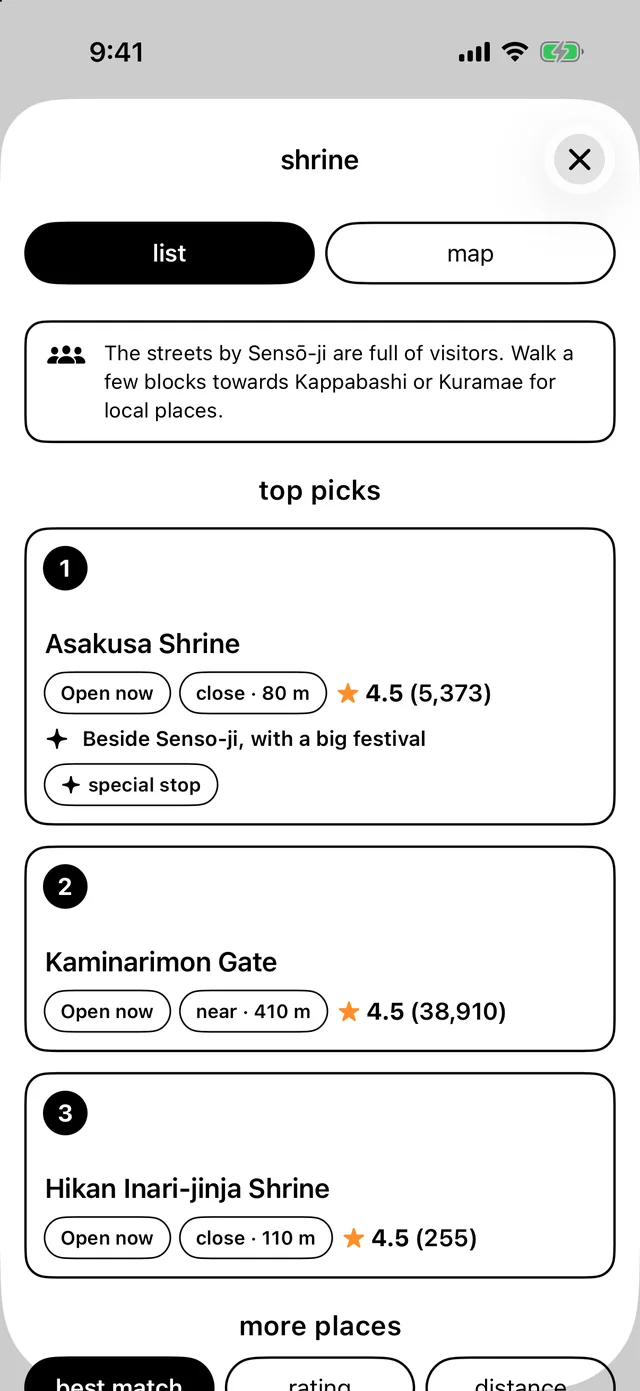
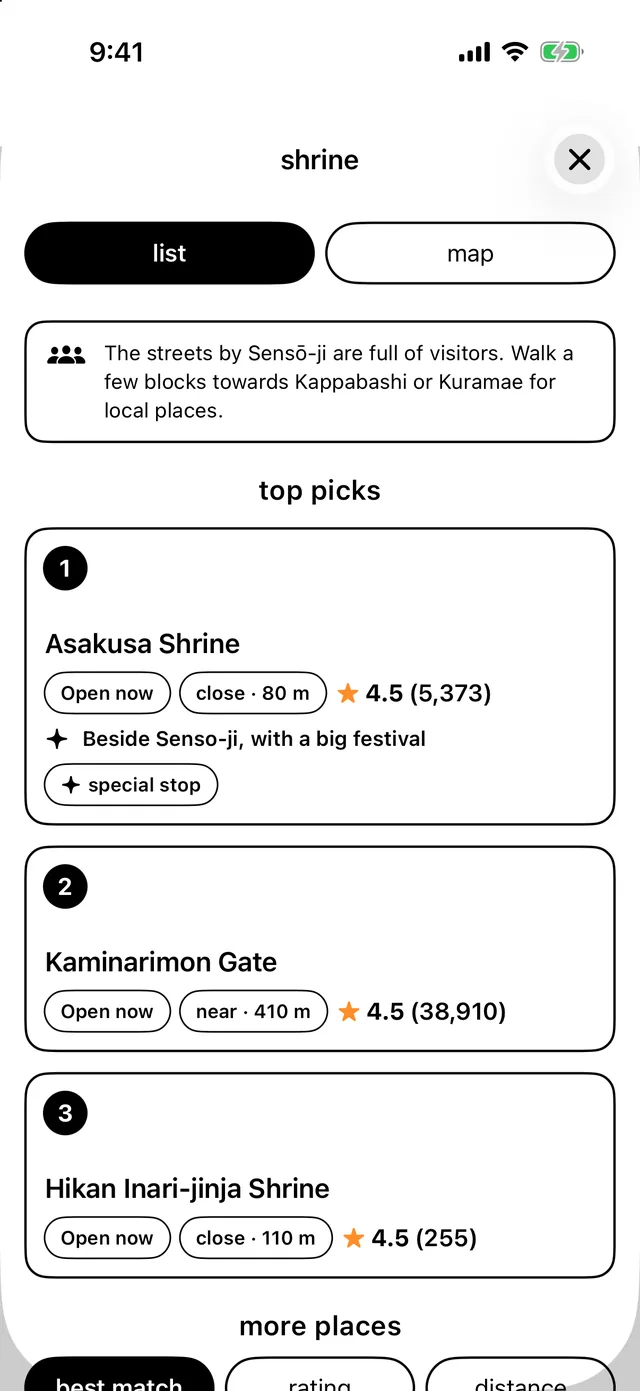
Demo: current app screens, one-tap walk flow with customize, place page path, guides and talk paths, status-bar clip, and an 'also inside' section
Claude-Session: https://claude.ai/code/session_01FxSsQnwZVufiE1aJZBi47o

Changed region(s): [[0.0, 0.0, 1.0, 0.0927]]

diff --git a/demo.js b/demo.js
@@ -2,7 +2,7 @@
 
    Each screen is an image in /images/demo plus a list of hotspots.
    Hotspot boxes are [x, y, width, height] in pixels of the 1206 x 2622
-   screenshots. `to` is a screen id, '@options' (the airport options screen
+   screenshots (iPhone 17 Pro). `to` is a screen id, '@options' (the airport options screen
    for whichever airport was picked) or 'end:<kind>' (the sign-up card).
    `hint: true` marks the suggested next tap (it glows). */
 (function () {
@@ -11,12 +11,15 @@
 
   function h(label, box, to, hint) { return { label: label, box: box, to: to, hint: !!hint }; }
 
+  /* `down` / `up`: the same page scrolled; shown as small arrow buttons. */
   var SCREENS = {
     home: { alt: 'Sanpo home screen', hot: [
-      { label: 'Sanpo walk', box: [303, 1214, 600, 150], to: 'party', hint: true, primary: true },
+      { label: 'Sanpo walk', box: [303, 1214, 600, 150], to: 'w1', hint: true, primary: true },
       { label: 'Arrival guide (airplane)', box: [357, 2147, 132, 131], to: 'airport', hint: true },
-      { label: 'Talk (chat bubbles)', box: [897, 2147, 132, 131], to: 'talk' },
-      { label: 'Before you go (checklist)', box: [177, 2147, 132, 131], to: 'checklist' }
+      h("What's nearby", [303, 1410, 600, 148], 'nearby'),
+      h('Scenarios', [303, 1604, 600, 149], 'guides'),
+      h('Talk (chat bubbles)', [897, 2147, 132, 131], 'talk'),
+      h('Before you go (checklist)', [177, 2147, 132, 131], 'checklist')
     ] },
     checklist: { alt: 'Before you go checklist', hot: [h('Back', BACK, 'home')] },
 
@@ -50,84 +53,112 @@
     uber: { alt: 'Airport to Shinjuku by uber', hot: [h('Back', BACK, 'shinjuku')] },
 
     /* ---- sanpo walk ---- */
-    party: { alt: 'Walk party size: 1 person', hot: [
+    w1: { alt: 'The first walk: short, medium and long, include chains, customize, four stops on a map', hot: [
       h('Back', BACK, 'home'),
-      h('One more person', [815, 1199, 66, 66], 'party2'),
-      h('Sanpo', [303, 1342, 600, 149], 'hunger', true)
+      h('Customize', [47, 731, 1111, 114], 'w2', true)
     ] },
-    party2: { alt: 'Walk party size: 2 people', hot: [
+    w2: { alt: 'Customize: how many are walking, hungry, and what you like', hot: [
       h('Back', BACK, 'home'),
-      h('One fewer person', [324, 1199, 66, 66], 'party'),
-      h('Sanpo', [303, 1342, 600, 149], 'hunger', true)
+      h('Lunch', [614, 1200, 503, 115], 'w3', true)
     ] },
-    hunger: { alt: 'How hungry are you?', hot: [
-      h('Back', BACK, 'party'),
-      h('Lunch', [303, 1021, 600, 149], 'prefs', true)
-    ] },
-    prefs: { alt: 'Walk preferences', hot: [
-      h('Back', BACK, 'hunger'),
-      h('Sanpo', [303, 2058, 600, 165], 'route', true)
-    ] },
-    route: { alt: 'Medium walk route with map and stops', hot: [
+    w3: { alt: 'Customize, scrolled: what to leave out, and update my walk', hot: [
       h('Back', BACK, 'home'),
-      h('Short', [47, 396, 357, 115], 'route-short'),
-      h('Long', [802, 396, 358, 115], 'route-long'),
-      h('Step through', [81, 839, 404, 100], 'step1', true)
+      h('Update my walk', [49, 1985, 1105, 150], 'w4', true)
     ] },
-    'route-short': { alt: 'Short walk route', hot: [
+    w4: { alt: 'The lunch walk: four stops on a map with short, medium and long', down: 'w5', hot: [
       h('Back', BACK, 'home'),
-      h('Medium', [425, 396, 358, 115], 'route'),
-      h('Long', [802, 396, 358, 115], 'route-long')
+      h('Step through', [81, 1040, 410, 110], 'step1', true)
     ] },
-    'route-long': { alt: 'Long walk route', hot: [
-      h('Back', BACK, 'home'),
-      h('Short', [47, 396, 357, 115], 'route-short'),
-      h('Medium', [425, 396, 358, 115], 'route')
+    w5: { alt: 'The lunch walk stops, with a soba restaurant as the main stop', up: 'w4', hot: [
+      h('Back', BACK, 'home')
     ] },
     step1: { alt: 'Stepping through the walk', hot: [
-      h('Whole walk', [207, 381, 315, 102], 'route'),
-      h('Previous stop', [81, 381, 102, 102], 'route'),
+      h('Whole walk', [207, 381, 315, 102], 'w4'),
+      h('Previous stop', [81, 381, 102, 102], 'w4'),
       h('Next stop', [545, 381, 102, 102], 'step2', true)
     ] },
     step2: { alt: 'Walking to stop 1', hot: [
-      h('Whole walk', [207, 381, 315, 102], 'route'),
+      h('Whole walk', [207, 381, 315, 102], 'w4'),
       h('Previous stop', [81, 381, 102, 102], 'step1'),
       h('Next stop', [545, 381, 102, 102], 'step3', true)
     ] },
     step3: { alt: 'Walking to stop 2', hot: [
-      h('Whole walk', [207, 381, 315, 102], 'route'),
+      h('Whole walk', [207, 381, 315, 102], 'w4'),
       h('Previous stop', [81, 381, 102, 102], 'step2'),
       h('Next stop', [545, 381, 102, 102], 'end:walk', true)
     ] },
 
-    /* ---- talk ---- */
-    talk: { alt: 'Talk: conversation categories', hot: [
+    /* ---- what's nearby: search, results, a place ---- */
+    nearby: { alt: "What's nearby: find something for me, search, and kinds of place", hot: [
       h('Back', BACK, 'home'),
-      h('Trains', [60, 372, 524, 180], 'trains', true),
-      h('Everyday', [621, 1236, 524, 180], 'everyday')
+      h('Find something for me', [212, 520, 780, 159], 'around'),
+      h('Search', [537, 886, 130, 81], 'search', true)
     ] },
-    trains: { alt: 'Trains: phrases to say', hot: [
+    search: { alt: 'Typing ram: the search suggests ramen with ラーメン beside it', hot: [
+      h('Ramen', [40, 455, 1126, 115], 'results', true),
+      h('Search', [905, 2250, 285, 140], 'results')
+    ] },
+    results: { alt: 'Ramen results, photos off: open now, distance and rating', hot: [
+      h('Close', [1050, 255, 100, 100], 'nearby'),
+      h('Torisoba Zagin', [45, 712, 1116, 382], 'place1', true)
+    ] },
+    around: { alt: 'Find something for me: the best open places around you, photos off', hot: [
+      h('Close', [1050, 255, 100, 100], 'nearby')
+    ] },
+    place1: { alt: 'A place page: open in maps, been here, show photos, and good to know with a topic chip', down: 'place2', downHint: true, hot: [
+      h('Close', [1020, 255, 130, 100], 'results')
+    ] },
+    place2: { alt: "The place page's review summary, labelled Summarized with Gemini", up: 'place1', hot: [
+      h('Close', [1020, 240, 130, 120], 'results'),
+      h('Menu words', [345, 868, 516, 100], 'place3', true)
+    ] },
+    place3: { alt: 'Menu words in Japanese with romaji and English', up: 'place2', down: 'place4', hot: [
+      h('Close', [1020, 240, 130, 120], 'results')
+    ] },
+    place4: { alt: 'Seating notes and a phrase to say how many are in your group', up: 'place3', hot: [
+      h('Close', [1020, 240, 130, 120], 'results')
+    ] },
+
+    /* ---- guides and phrase cards ---- */
+    guides: { alt: 'Guides: food, everyday, cafes and sweets, sights, shopping, drinks and nightlife', hot: [
+      h('Back', BACK, 'home'),
+      h('Food', [303, 774, 598, 148], 'guides-food', true)
+    ] },
+    'guides-food': { alt: 'Food guides', hot: [
+      h('Back', BACK, 'guides'),
+      h('Japanese food', [303, 930, 598, 148], 'guides-jp', true)
+    ] },
+    'guides-jp': { alt: 'Japanese food guides: ramen, teishoku, gyudon, tonkatsu, sushi, yakitori and more', hot: [
+      h('Back', BACK, 'guides-food'),
+      h('Ramen', [60, 758, 524, 150], 'guide-ramen', true)
+    ] },
+    'guide-ramen': { alt: 'The ramen guide, with a phrase card showing romaji, Japanese and English', down: 'guide-ramen2', hot: [
+      h('Back', BACK, 'guides-jp'),
+      h('Phrase card: osusume wa nan desu ka?', [48, 1489, 1109, 205], 'card1', true)
+    ] },
+    'guide-ramen2': { alt: 'The ramen guide steps: at the ticket machine, with a phrase card for how many', up: 'guide-ramen', hot: [
+      h('Back', BACK, 'guides-jp'),
+      h('Phrase card: hitori desu', [90, 720, 1025, 260], 'card2')
+    ] },
+    card1: { alt: 'A phrase card filling the screen in large Japanese: what do you recommend?', hot: [
+      h('Back', [0, 0, 1206, 2622], 'guide-ramen')
+    ] },
+    card2: { alt: 'A phrase card filling the screen in large Japanese: just one', hot: [
+      h('Back', [0, 0, 1206, 2622], 'guide-ramen2')
+    ] },
+
+    /* ---- talk ---- */
+    talk: { alt: 'Talk: conversation topics', hot: [
+      h('Back', BACK, 'home'),
+      h('Pharmacy', [621, 1452, 524, 180], 'talk2', true)
+    ] },
+    talk2: { alt: 'Pharmacy: choose what to say', hot: [
       h('Back', BACK, 'talk'),
-      h('More', [619, 2197, 545, 125], 'trains-more', true)
+      h('A cold', [619, 1659, 545, 146], 'talk3', true)
     ] },
-    'trains-more': { alt: 'Trains: more phrases', hot: [
-      h('Back', BACK, 'talk'),
-      h('How many stops to...?', [42, 1753, 545, 166], 'picker', true)
-    ] },
-    picker: { alt: 'Where to? Station picker', hot: [
-      h('Done', [946, 186, 211, 131], 'trains-more'),
-      h('Tokyo', [49, 924, 543, 149], 'trains-after', true),
-      h('Shinjuku', [615, 924, 543, 149], 'trains-after')
-    ] },
-    'trains-after': { alt: 'The phrase shown upside down to the station staff', hot: [
-      h('Back', BACK, 'talk'),
-      h('Choose a place', [363, 2365, 481, 117], 'picker')
-    ] },
-    everyday: { alt: 'Everyday: phrases to say', hot: [
-      h('Back', BACK, 'talk'),
-      h('Check, please', [42, 2011, 545, 146], 'everyday-after', true)
-    ] },
-    'everyday-after': { alt: "'Check, please' shown upside down to the staff", hot: [h('Back', BACK, 'talk')] }
+    talk3: { alt: 'The staff side shows the Japanese upside down; you see "please wait"', hot: [
+      h('Back', BACK, 'talk')
+    ] }
   };
 
   for (var n = 1; n <= 10; n++) {
@@ -180,6 +211,22 @@
       b.addEventListener('click', function () { go(hs.to); });
       wrap.appendChild(b);
     });
+    if (s.up || s.down) {
+      var bar = document.createElement('div');
+      bar.className = 'demo-scrolls';
+      [['up', s.up], ['down', s.down]].forEach(function (d) {
+        if (!d[1]) return;
+        var b = document.createElement('button');
+        b.type = 'button';
+        b.className = 'demo-hot demo-scroll ' + d[0] + (d[0] === 'down' && s.downHint ? ' hint' : '');
+        b.setAttribute('aria-label', d[0] === 'down' ? 'Scroll down' : 'Scroll up');
+        b.tabIndex = -1;
+        b.textContent = d[0] === 'down' ? '↓' : '↑';
+        b.addEventListener('click', function () { go(d[1]); });
+        bar.appendChild(b);
+      });
+      wrap.appendChild(bar);
+    }
     viewport.insertBefore(wrap, endcard);
     els[id] = wrap;
     return wrap;
@@ -219,6 +266,8 @@
     s.hot.forEach(function (hs) {
       if (hs.to.indexOf('end:') !== 0) ensure(resolve(hs.to));
     });
+    if (s.up) ensure(s.up);
+    if (s.down) ensure(s.down);
     if (caption) caption.textContent = id === 'home' ? 'tap sanpo to take a walk, or the airplane if you just landed' : 'tap the glowing button, or explore';
     if (cta) cta.hidden = moves < 4;
   }

diff --git a/index.html b/index.html
@@ -69,6 +69,37 @@
       </div>
     </section>
 
+    <section class="page gallery">
+      <p class="index-title">also inside</p>
+      <h2>and a few more things.</h2>
+      <div class="gallery-strip">
+        <figure>
+          <div class="phone"><img src="images/g-special.webp" width="640" height="1391" loading="lazy" alt="Shrine results in Asakusa with a note about where the quieter streets are, and a special stop tag" /></div>
+          <figcaption><b>special stops</b>Hand-picked places are marked on results, and busy districts like Asakusa get an honest note about where the quieter streets are.</figcaption>
+        </figure>
+        <figure>
+          <div class="phone"><img src="images/g-sento.webp" width="640" height="1391" loading="lazy" alt="The sento guide: what to do with the milk bottle afterwards" /></div>
+          <figcaption><b>the milk-bottle tip</b>Plain words for the small things nobody explains, like what to do with the bottle after a sento.</figcaption>
+        </figure>
+        <figure>
+          <div class="phone"><img src="images/g-dark1.webp" width="640" height="1391" loading="lazy" alt="Sanpo's you're in a station card in dark mode" /></div>
+          <figcaption><b>dark mode</b>Black and white swap. This is the station card, which suggests starting from outside.</figcaption>
+        </figure>
+        <figure>
+          <div class="phone"><img src="images/g-dark2.webp" width="640" height="1391" loading="lazy" alt="A walk in dark mode with short, medium and long, include chains and customize" /></div>
+          <figcaption><b>dark mode, on a walk</b>The same kind of walk, in the dark.</figcaption>
+        </figure>
+        <figure>
+          <div class="phone"><img src="images/g-dark3.webp" width="640" height="1391" loading="lazy" alt="The guides list in dark mode: food, everyday, drinks and nightlife, cafes and sweets, sights, shopping" /></div>
+          <figcaption><b>dark mode, guides</b>Every guide works the same way, light or dark.</figcaption>
+        </figure>
+        <figure>
+          <div class="phone"><img src="images/g-dark4.webp" width="640" height="1391" loading="lazy" alt="The restaurant guide in dark mode, with a phrase card for how many are in your group" /></div>
+          <figcaption><b>dark mode, a guide</b>Phrase cards read just as well on a black screen.</figcaption>
+        </figure>
+      </div>
+    </section>
+
     <section class="page">
       <div class="quote">
         <p>Every neighborhood in Japan has something to offer. It's time we spread the love more evenly.</p>

diff --git a/styles.css b/styles.css
@@ -422,3 +422,44 @@ h1, h2, h3 { font-weight: normal; margin: 0; line-height: 1.12; letter-spacing: 
 .more .phones.mini .phone { flex: 0 1 190px; max-width: 190px; border-radius: 30px; padding: 6px; }
 .more .phones.mini .phone img { border-radius: 24px; }
 @media (max-width: 760px) { .more .phones.mini .phone { flex-basis: 160px; max-width: 160px; } }
+
+/* arrow buttons for screens that are the same page scrolled */
+.demo-scrolls {
+  position: absolute;
+  left: 0; right: 0; bottom: 2.4%;
+  display: flex;
+  justify-content: center;
+  gap: 10px;
+  pointer-events: none;
+  z-index: 2;
+}
+.demo-hot.demo-scroll {
+  position: relative;
+  pointer-events: auto;
+  width: 11.5%;
+  aspect-ratio: 1;
+  min-width: 30px;
+  border-radius: 50%;
+  background: #000;
+  color: #fff;
+  font: 700 1rem/1 var(--sans);
+  display: flex; align-items: center; justify-content: center;
+  opacity: 0.9;
+}
+.demo-hot.demo-scroll:hover { background: #000; opacity: 1; }
+.demo-scroll.hint::after { border-radius: 50%; inset: -5px; }
+
+/* "also inside": a few more things the app does */
+.gallery { margin: 0 0 96px; }
+.gallery h2 { font-size: clamp(2rem, 4.4vw, 3rem); margin-bottom: 28px; }
+.gallery-strip { display: grid; grid-template-columns: repeat(3, minmax(0, 1fr)); gap: 40px 32px; }
+.gallery figure { margin: 0; }
+.gallery .phone { max-width: 230px; margin: 0 0 14px; }
+.gallery figcaption { font-size: 1rem; color: #222; max-width: 20em; }
+.gallery figcaption b { font-weight: normal; display: block; font-size: 1.25rem; margin-bottom: 4px; }
+@media (max-width: 760px) {
+  .gallery { margin-bottom: 64px; }
+  .gallery-strip { display: flex; gap: 20px; overflow-x: auto; scroll-snap-type: x mandatory; padding-bottom: 14px; margin: 0 calc(var(--gutter) * -1); padding-left: var(--gutter); padding-right: var(--gutter); }
+  .gallery figure { flex: 0 0 210px; scroll-snap-align: start; }
+  .gallery .phone { max-width: 210px; }
+}
